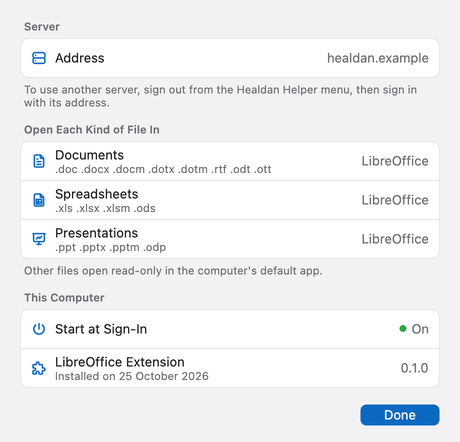
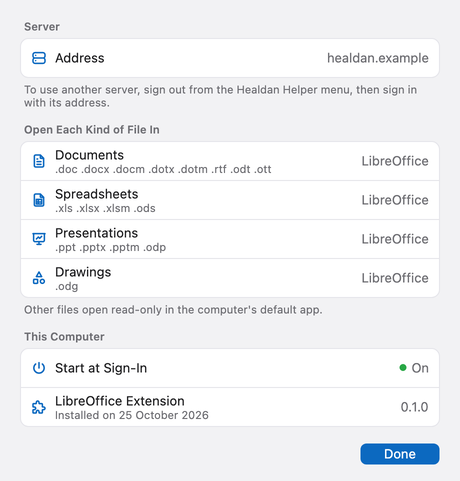
Open and save LibreOffice Draw drawings through Healdan
Draw joins Writer, Calc and Impress for .odg drawings. The extension
files a new drawing as .odg with LibreOffice's draw8 filter (Draw saves
no Microsoft format, so it's the File Format pop-up's one choice), shows
the Healdan menu and toolbar in Draw, and names and docks the toolbar
there with DrawWindowState.xcu. Its version goes to 0.3.0, so the helper
installs it over an older one.

The helper gets a fourth kind, Drawings (.odg), so a drawing is checked
out, edited in LibreOffice and saved back like the others, opens from a
link, and has a row in Settings, with Tabler's triangle-square-circle as
its icon. Visio and Publisher files, which Draw opens but can't save,
stay other files, read-only in the default app.

The User Guide and the Install manual name Draw and drawings, and
Settings' picture is drawn again with the new row; the rest of it is
unchanged, pixel for pixel. M3's spec, the polish spec's icon table and
the roadmap record the change. The web page's Open in App for .odg, and
the server's previews of drawings, follow in a pull request of their own.

diff --git a/clients/libreoffice/tests/test_logic.py b/clients/libreoffice/tests/test_logic.py
@@ -67,7 +67,7 @@ class CommandsTest(unittest.TestCase):
         self.assertEqual("save-new", logic.action(".uno:Save", True, True, read_only=True))
 
     def test_saves_stay_local_where_healdan_cant_file(self):
-        # Draw, Math, Base and the like have no formats to file in, so their saves stay LibreOffice's.
+        # Math, Base and the like have no formats to file in, so their saves stay LibreOffice's.
         self.assertEqual("local", logic.action(".uno:Save", False, False, can_file=False))
         self.assertEqual("local", logic.action(".uno:SaveAs", True, True, can_file=False))
         self.assertEqual("local", logic.action(".uno:Save", True, True, read_only=True, can_file=False))
@@ -83,8 +83,12 @@ class CommandsTest(unittest.TestCase):
     def test_formats_impress(self):
         self.assertEqual(["odp", "pptx"], logic.formats("impress"))
 
+    def test_formats_draw(self):
+        # Draw writes no Microsoft format, so a drawing is filed in its own.
+        self.assertEqual(["odg"], logic.formats("draw"))
+
     def test_formats_elsewhere_none(self):
-        for kind in ("draw", "math", "base", "start", None):
+        for kind in ("math", "base", "start", None):
             self.assertEqual([], logic.formats(kind), kind)
 
     def test_formats_are_a_fresh_list(self):
@@ -96,8 +100,9 @@ class CommandsTest(unittest.TestCase):
             "odt": "writer8", "docx": "MS Word 2007 XML",
             "ods": "calc8", "xlsx": "Calc MS Excel 2007 XML",
             "odp": "impress8", "pptx": "Impress MS PowerPoint 2007 XML",
+            "odg": "draw8",
         }, logic.FILTERS)
-        for kind in ("writer", "calc", "impress"):
+        for kind in ("writer", "calc", "impress", "draw"):
             for fmt in logic.formats(kind):
                 self.assertIn(fmt, logic.FILTERS)
 
@@ -244,6 +249,7 @@ class PathsTest(unittest.TestCase):
         self.assertEqual("notes", logic.document_name("notes.rtf", "file:///Users/rob/notes.rtf"))
         self.assertEqual("Untitled", logic.document_name("", ""))
         self.assertEqual("Lease", logic.document_name("Lease.odt", "vnd.sun.star.webdav://host/Lease.odt"))
+        self.assertEqual("Floor plan", logic.document_name("Floor plan.odg", "vnd.sun.star.webdav://host/Floor%20plan.odg"))
 
     def test_doc_ref_from(self):
         self.assertEqual("#1234 v2.1", logic.doc_ref_from("Lease agreement #1234 v2.1"))
@@ -947,9 +953,19 @@ class FlowsTest(unittest.TestCase):
         self.assertEqual(os.path.join(self.copies, "Budget #7 v1.0 (read-only).ods"), channel.body("save-new")["path"])
         self.assertEqual(["ods", "xlsx"], channel.body("save-new")["formats"])
 
-    def test_draw_saves_stay_libreoffices(self):
+    def test_save_new_files_a_drawing_as_odg(self):
+        answer = self.save_answer("odg")
+        state = self.state("Floor plan #11 v1.0.odg", n=11)
+        channel = FakeChannel(save_new=answer, file=state)
+        doc = FakeDoc(self.log, kind="draw", title="Untitled 3")
+        self.assertTrue(self.flows(channel).command(".uno:Save", doc, self.original()))
+        self.assertEqual(["odg"], channel.body("save-new")["formats"])
+        self.assertIn(("write_to", answer["tempPath"], "draw8"), self.log)
+        self.assertIn(("adopt", state["path"], "draw8", "locked"), self.log)
+
+    def test_math_saves_stay_libreoffices(self):
         channel = FakeChannel()
-        self.assertTrue(self.flows(channel).command(".uno:Save", FakeDoc(self.log, kind="draw"), self.original()))
+        self.assertTrue(self.flows(channel).command(".uno:Save", FakeDoc(self.log, kind="math"), self.original()))
         self.assertEqual([], channel.calls)
         self.assertEqual(["original"], self.log)
 

diff --git a/clients/helper/Healdan.Helper.Core.Tests/Settings/FileKindsTests.cs b/clients/helper/Healdan.Helper.Core.Tests/Settings/FileKindsTests.cs
@@ -2,16 +2,18 @@ using Healdan.Helper.Core.Settings;
 
 namespace Healdan.Helper.Core.Tests.Settings;
 
-/// <summary>Settings' "which app opens each kind" (spec §5.11): the three kinds, all LibreOffice in M3.</summary>
+/// <summary>Settings' "which app opens each kind" (spec §5.11): the four kinds, all LibreOffice in M3.</summary>
 public class FileKindsTests
 {
     [Fact]
     public void TheKindsAreTheSpecs()
     {
-        Assert.Equal(["Documents", "Spreadsheets", "Presentations"], FileKinds.All.Select(k => k.Label));
+        Assert.Equal(["Documents", "Spreadsheets", "Presentations", "Drawings"], FileKinds.All.Select(k => k.Label));
         Assert.Equal([".doc", ".docx", ".docm", ".dotx", ".dotm", ".rtf", ".odt", ".ott"], FileKinds.Documents.Extensions);
         Assert.Equal([".xls", ".xlsx", ".xlsm", ".ods"], FileKinds.Spreadsheets.Extensions);
         Assert.Equal([".ppt", ".pptx", ".pptm", ".odp"], FileKinds.Presentations.Extensions);
+        // Only Draw's own format: Draw opens Visio and Publisher files but can't save them, so they stay the default app's.
+        Assert.Equal([".odg"], FileKinds.Drawings.Extensions);
     }
 
     [Fact]
@@ -32,6 +34,8 @@ public class FileKindsTests
         // What links and the cycle go by: the name's own extension, never a bare name that looks like one.
         Assert.Equal(FileKinds.Spreadsheets, FileKinds.OfFile("Budget.XLSX"));
         Assert.Equal(FileKinds.Documents, FileKinds.OfFile("/Copies/Lease #5 v1.0.odt"));
+        Assert.Equal(FileKinds.Drawings, FileKinds.OfFile("/Copies/Floor plan #11 v1.0.odg"));
+        Assert.Null(FileKinds.OfFile("Site layout.vsdx"));
         Assert.Null(FileKinds.OfFile("docx"));
         Assert.Null(FileKinds.OfFile("Signed NDA.pdf"));
         Assert.Null(FileKinds.OfFile("Run me.command"));

diff --git a/clients/libreoffice/healdan_logic.py b/clients/libreoffice/healdan_logic.py
@@ -29,11 +29,12 @@ SAVE = ".uno:Save"
 SAVE_AS = ".uno:SaveAs"
 INTERCEPTED = OPENS + (SAVE, SAVE_AS)
 
-# The formats a new document can be filed in, the app's own family first (spec 5.6).
+# The formats a new document can be filed in, the app's own family first (spec 5.6). Draw writes no Microsoft format.
 _FORMATS = {
     "writer": ("odt", "docx"),
     "calc": ("ods", "xlsx"),
     "impress": ("odp", "pptx"),
+    "draw": ("odg",),
 }
 
 # LibreOffice's export filter for each format, as LibreOffice 26.8's registry names them.
@@ -44,6 +45,7 @@ FILTERS = {
     "xlsx": "Calc MS Excel 2007 XML",
     "odp": "impress8",
     "pptx": "Impress MS PowerPoint 2007 XML",
+    "odg": "draw8",
 }
 
 # LibreOffice's module for each app. Writer/Web and master documents aren't filed: Writer's formats don't hold them.
@@ -137,7 +139,7 @@ def action(command, is_copy, has_location, read_only=False, can_file=True):
     format), "save-new" (Save to Healdan, or Save as New Document on a copy) or "local" (LibreOffice's own command).
 
     A read-only copy can't be saved over, so its Save is Save as New Document. Where Healdan can't file the document
-    (can_file is false: Draw, Math, Base), Save and Save As stay LibreOffice's, apart from a copy's own save.
+    (can_file is false: Math, Base), Save and Save As stay LibreOffice's, apart from a copy's own save.
     """
     command = _main(command)
     if command in OPENS:
@@ -298,7 +300,7 @@ def document_name(title, url):
 
 
 _ALL_EXTENSIONS = {"odt", "ott", "docx", "docm", "dotx", "dotm", "doc", "rtf", "ods", "xlsx", "xlsm", "xls", "odp",
-                   "pptx", "pptm", "ppt"}
+                   "pptx", "pptm", "ppt", "odg"}
 
 _DOC_REF = re.compile(r"#(\d+) v(\d+(?:\.\d+)*)(?: \(read-only\))?(?:\.[A-Za-z0-9]+)?$")
 

diff --git a/clients/libreoffice/tests/test_package.py b/clients/libreoffice/tests/test_package.py
@@ -26,7 +26,7 @@ LO = "{http://libreoffice.org/extensions/description/2011}"
 XLINK = "{http://www.w3.org/1999/xlink}"
 
 DOCUMENTS = ("com.sun.star.text.TextDocument", "com.sun.star.sheet.SpreadsheetDocument",
-             "com.sun.star.presentation.PresentationDocument")
+             "com.sun.star.presentation.PresentationDocument", "com.sun.star.drawing.DrawingDocument")
 START_CENTER = "com.sun.star.frame.StartModule"
 EVENTS = ("OnStartApp", "onFirstVisibleTask", "OnNew", "OnLoad", "OnViewCreated", "OnUnload", "OnCloseApp")
 ICONS = {"SaveToHealdan": "save-to-healdan", "OpenFromHealdan": "open-from-healdan", "SaveAsNewVersion": "save-as-new-version",
@@ -201,7 +201,7 @@ class PackageTest(unittest.TestCase):
         for item in nodes(toolbars[0]):
             self.assertNotIn(START_CENTER, prop(item, "Context"))
         resource = "private:resource/toolbar/addon_" + toolbars[0].get(OOR + "name")
-        for app in ("Writer", "Calc", "Impress"):
+        for app in ("Writer", "Calc", "Impress", "Draw"):
             state = self.xml(app + "WindowState.xcu")
             self.assertEqual(app + "WindowState", state.get(OOR + "name"))
             self.assertEqual("Healdan", prop(node(state, "UIElements", "States", resource), "UIName"), app)

diff --git a/clients/helper/Healdan.Helper.Core.Tests/Links/LinkHandlerTests.cs b/clients/helper/Healdan.Helper.Core.Tests/Links/LinkHandlerTests.cs
@@ -80,7 +80,7 @@ public sealed class LinkHandlerTests : IDisposable
     }
 
     [Fact]
-    public async Task OpensOnlyDocumentsSpreadsheetsAndPresentations()
+    public async Task OpensOnlyTheSpecsKinds()
     {
         // Spec 5.11's kinds; anything else a matter holds opens only from the Open window (the final review's C2).
         _server.Add(7, "Run me.command", "#!/bin/sh");
@@ -94,7 +94,9 @@ public sealed class LinkHandlerTests : IDisposable
         Assert.Empty(opener.Opened);
         Assert.Empty(_app.Opened);
         Assert.Equal(0, _server.Count("GET /documents/7/content"));
-        Assert.Contains("Open it from the web page, or from Open from Healdan", Assert.Single(_events.Errors));
+        var error = Assert.Single(_events.Errors);
+        Assert.Contains("a link opens only documents, spreadsheets, presentations and drawings", error);
+        Assert.Contains("Open it from the web page, or from Open from Healdan", error);
     }
 
     [Fact]

diff --git a/clients/helper/Healdan.Helper.Core/Links/LinkHandler.cs b/clients/helper/Healdan.Helper.Core/Links/LinkHandler.cs
@@ -6,8 +6,8 @@ namespace Healdan.Helper.Core.Links;
 
 /// <summary>
 /// Acts on the web page's links (spec §5.3), from an Apple event or the channel's <c>/v1/link</c>. A link only opens,
-/// only documents, spreadsheets and presentations (<see cref="CopyCycle.OpenLinkAsync"/>), and only from the server the
-/// helper is signed in to; one naming another server, or none, is refused with a notice
+/// only documents, spreadsheets, presentations and drawings (<see cref="CopyCycle.OpenLinkAsync"/>), and only from the
+/// server the helper is signed in to; one naming another server, or none, is refused with a notice
 /// saying which server the helper is signed in to. The link that started the helper is held until it's first
 /// <see cref="Ready"/> (signed in, and its copies resumed, so no open runs before the stale downloads are swept), even
 /// while the Sign In window waits; later ones are dropped. Only that cold-start link is ever held: once the helper has

diff --git a/clients/helper/Healdan.Helper.Core.Tests/Browse/FileIconsTests.cs b/clients/helper/Healdan.Helper.Core.Tests/Browse/FileIconsTests.cs
@@ -13,6 +13,8 @@ public sealed class FileIconsTests
     [InlineData("Schedule of dilapidations.xlsx", "file-spreadsheet")]
     [InlineData("Costs.ods", "file-spreadsheet")]
     [InlineData("Pitch.pptx", "presentation")]
+    [InlineData("Floor plan.odg", "triangle-square-circle")]
+    [InlineData("Site layout.vsdx", "file")]
     [InlineData("Signed NDA.pdf", "file-type-pdf")]
     [InlineData("Site photo.JPG", "photo")]
     [InlineData("Plan.heic", "photo")]
@@ -22,5 +24,5 @@ public sealed class FileIconsTests
 
     [Fact]
     public void SettingsRowsGetTheirKindsIcon() =>
-        Assert.Equal(["file-text", "file-spreadsheet", "presentation"], FileKinds.All.Select(FileIcons.For));
+        Assert.Equal(["file-text", "file-spreadsheet", "presentation", "triangle-square-circle"], FileKinds.All.Select(FileIcons.For));
 }

diff --git a/clients/helper/Healdan.Helper.Core/Settings/FileKinds.cs b/clients/helper/Healdan.Helper.Core/Settings/FileKinds.cs
@@ -9,7 +9,10 @@ public static class FileKinds
 
     public static readonly FileKind Presentations = new("Presentations", [".ppt", ".pptx", ".pptm", ".odp"]);
 
-    public static readonly IReadOnlyList<FileKind> All = [Documents, Spreadsheets, Presentations];
+    /// <summary>Draw's own format only: Draw opens Visio and Publisher files but can't save them.</summary>
+    public static readonly FileKind Drawings = new("Drawings", [".odg"]);
+
+    public static readonly IReadOnlyList<FileKind> All = [Documents, Spreadsheets, Presentations, Drawings];
 
     /// <summary>
     /// The kind of a file by its own extension, or null. Links and the cycle go by this: a name with no extension, such

diff --git a/clients/helper/Healdan.Helper.Core/Cycle/CopyCycle.cs b/clients/helper/Healdan.Helper.Core/Cycle/CopyCycle.cs
@@ -566,8 +566,8 @@ public sealed class CopyCycle : IDisposable
         {
             if (link)
             {
-                Raise(ev => ev.Error($"{doc.Name} wasn't opened: a link opens only documents, spreadsheets and presentations. "
-                    + "Open it from the web page, or from Open from Healdan."));
+                Raise(ev => ev.Error($"{doc.Name} wasn't opened: a link opens only documents, spreadsheets, presentations and "
+                    + "drawings. Open it from the web page, or from Open from Healdan."));
                 return;
             }
             if (_other is not null)

diff --git a/clients/helper/Healdan.Helper.Core.Tests/App/IconsTests.cs b/clients/helper/Healdan.Helper.Core.Tests/App/IconsTests.cs
@@ -21,7 +21,7 @@ public sealed class IconsTests
         "alert-triangle", "briefcase", "building", "chevron-left", "chevron-right", "chevron-up", "clock", "device-floppy",
         "eye", "file", "file-plus", "file-spreadsheet", "file-text", "file-type-pdf", "folder", "folder-open", "folder-plus",
         "hash", "history", "list-details", "lock", "photo", "power", "presentation", "puzzle", "search", "selector", "server",
-        "star", "versions"
+        "star", "triangle-square-circle", "versions"
     ];
 
     [Fact]

diff --git a/clients/helper/Healdan.Helper.Core/Browse/FileIcons.cs b/clients/helper/Healdan.Helper.Core/Browse/FileIcons.cs
@@ -18,5 +18,8 @@ public static class FileIcons
 
     /// <summary>An office kind's icon, as Settings' rows show it.</summary>
     public static string For(FileKind kind) =>
-        kind == FileKinds.Spreadsheets ? "file-spreadsheet" : kind == FileKinds.Presentations ? "presentation" : "file-text";
+        kind == FileKinds.Spreadsheets ? "file-spreadsheet"
+        : kind == FileKinds.Presentations ? "presentation"
+        : kind == FileKinds.Drawings ? "triangle-square-circle"
+        : "file-text";
 }

diff --git a/clients/helper/Healdan.Helper.Core.Tests/Forms/SaveNewTests.cs b/clients/helper/Healdan.Helper.Core.Tests/Forms/SaveNewTests.cs
@@ -54,6 +54,7 @@ public class SaveNewTests
         Assert.Equal("Excel Workbook (.xlsx)", FileFormats.Label("xlsx"));
         Assert.Equal("OpenDocument Presentation (.odp)", FileFormats.Label("odp"));
         Assert.Equal("PowerPoint Presentation (.pptx)", FileFormats.Label("pptx"));
+        Assert.Equal("OpenDocument Drawing (.odg)", FileFormats.Label("odg"));
         Assert.Equal(".rtf", FileFormats.Label("rtf"));
     }
 
